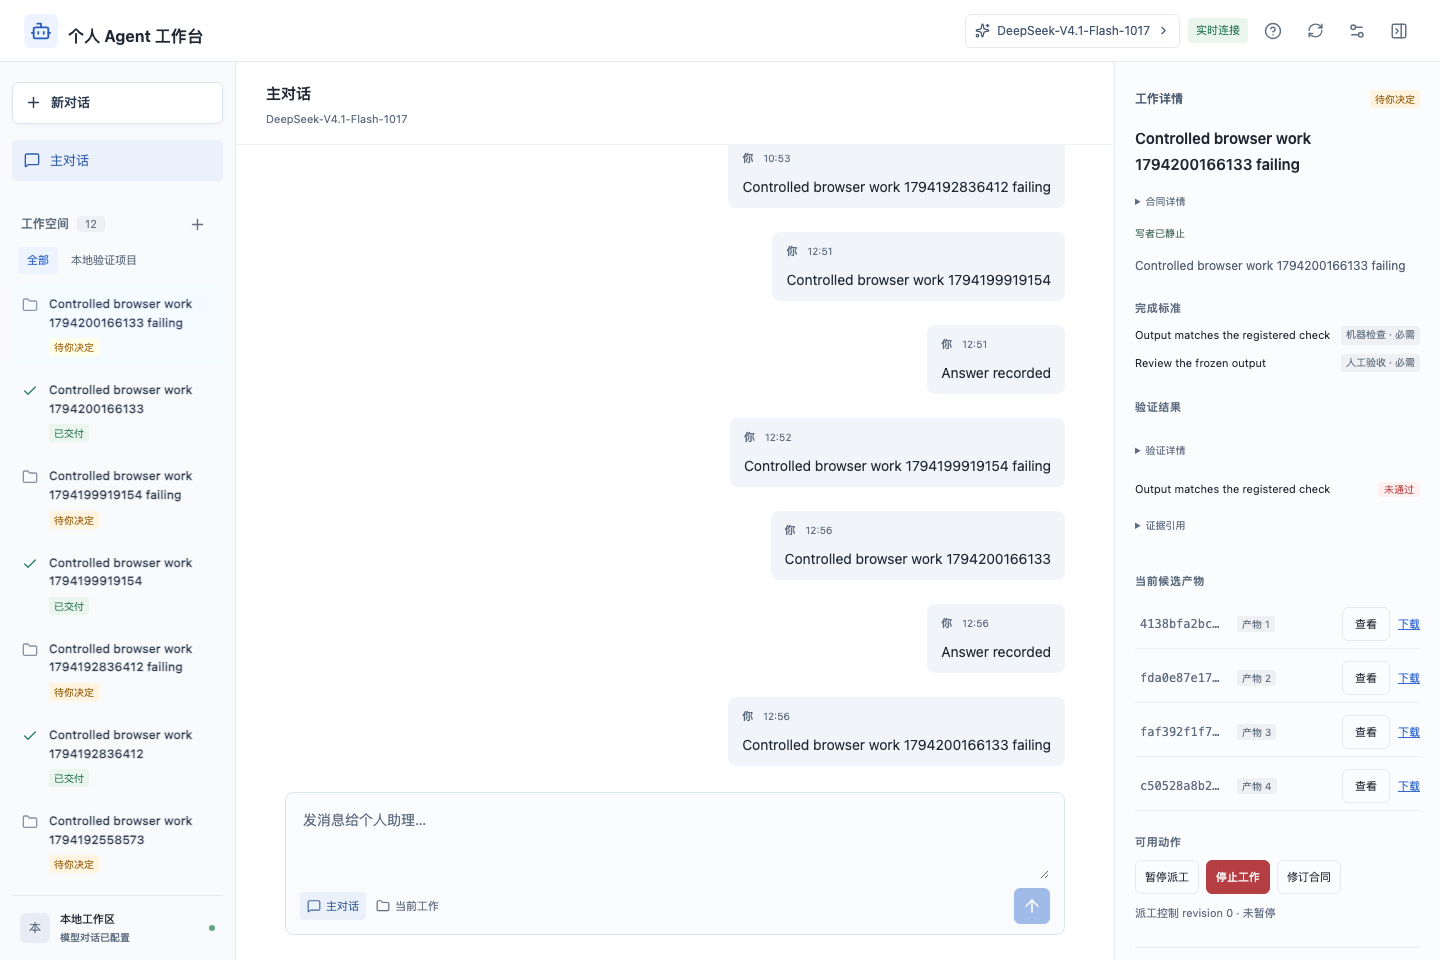
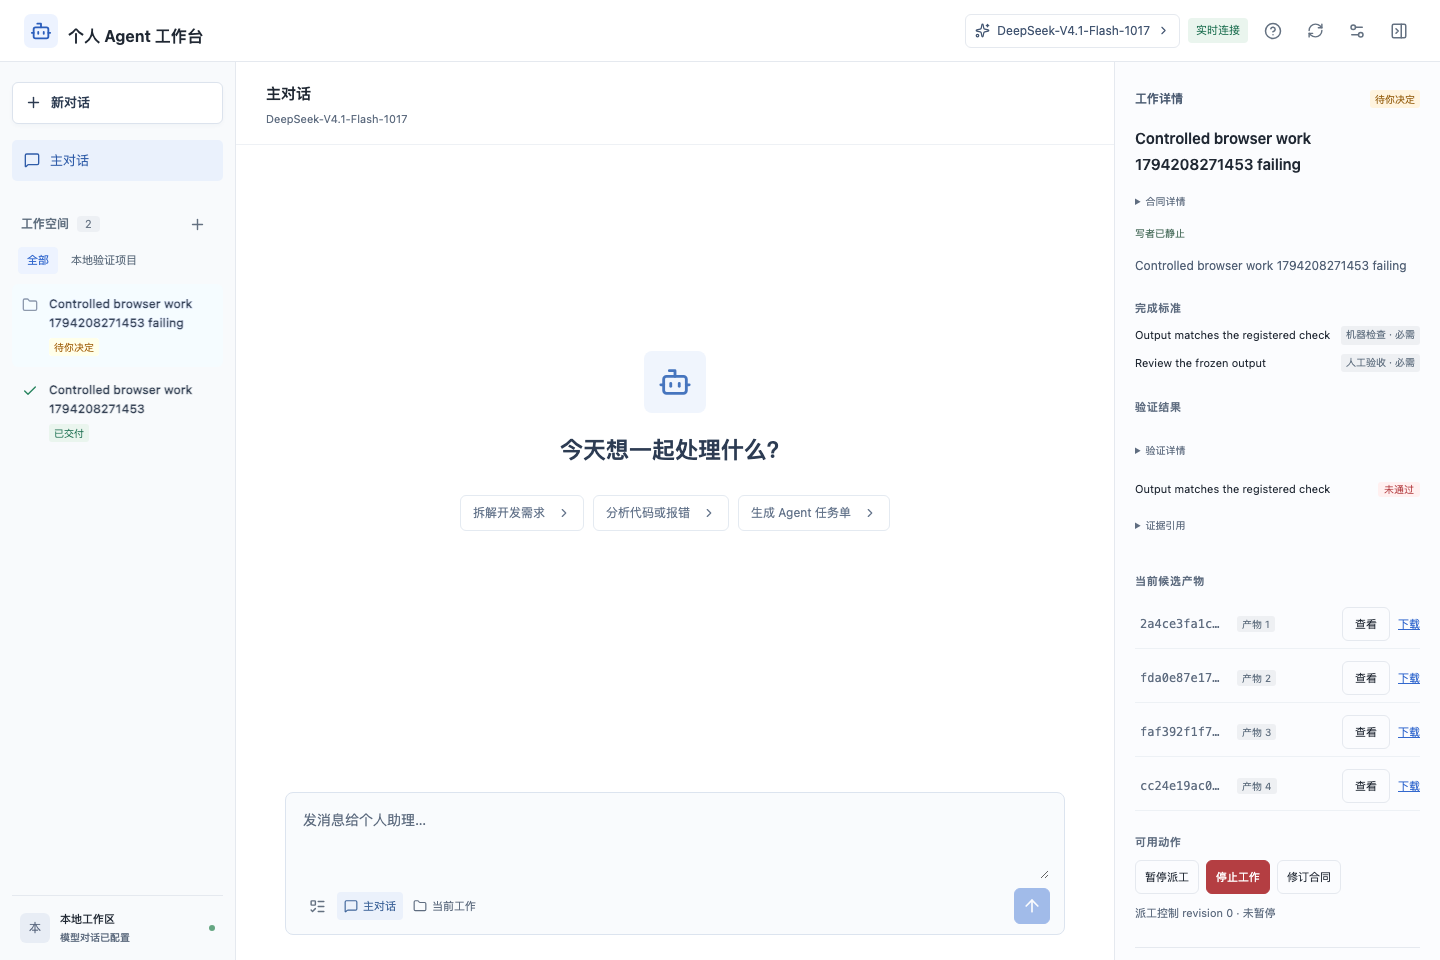
Record streaming, conversation isolation and live provider acceptance

diff --git a/docs/rfcs/WP-16/0007-streaming-and-conversation-isolation.md b/docs/rfcs/WP-16/0007-streaming-and-conversation-isolation.md
@@ -1,0 +1,46 @@
+# 流式对话与工作记录隔离
+
+日期：2026-11-09。分支：`codex/g2-execution-integration`。基线：`4c933b4b388c413603d8673c98999195f4a616c9`。已验收源码：`4e984fa71a0dc62e63fdc4a670a50daf1d152312`。本交接接续 0006，不升级真实编码执行器或 G1/G2 准入。
+
+## 问题与复现
+
+用户截图中，模型把 `Controlled browser work ... failing` 当作需求文本；回复也等待完成后整体出现。根因有两层：工作委托/补充与普通 chat 均使用 `trusted_user` provenance，模型历史只筛 provenance，遗漏 anchor；主线浏览器验收又直接写默认 `conv-main`。此前模型 SDK 明确使用 `stream: false`。
+
+先添加回归并实测失败：`node --test --test-name-pattern='work delegation' tests/integration/assistant-replies.case.mjs` 显示模型收到 `[测试工作目标, 工作内部补充, 当前问题]`，预期仅当前问题。`pnpm --filter @personal-agent/coordinator test:assistant` 的增量用例在修复前确认请求未启用 streaming，首段未提前到达。
+
+## 实现与归属
+
+主线拥有 coordinator 组合、contracts、根配置、集成测试；本次用户要求的 console 对话改进在主 checkout 实现。没有改 A/B checkout、生产迁移或 native 候选准入。
+
+- `assistant-replies.ts` 拒收工作锚定输入，历史排除锚定工作消息及其回复。主对话 UI 同样排除这些记录；选择“当前工作”才显示相应工作消息。保留既有数据库和历史，不重写旧回复。
+- `workbench-browser.mjs` 为每次验收创建独立随机 conversation ID，查询和委托均使用它，不再污染默认个人对话。
+- `model-provider.ts` 使用 SDK streaming completion，按网络增量调用回调。跨分片保留可能的 key 前缀并脱敏，之后才发出显示文本；限制 32768 字符、整次请求 45 秒，不自动重试。缺少 finish marker 视为中断。
+- 新 `AssistantStreams` 只保存最多 64 份临时显示快照。每份包含原消息/回复/项目/会话身份、revision、累计文本和 phase；75ms 检查有变化才发送，不写逐 token SQL。服务关闭中止当前模型请求，网页关闭不重发或取消后台请求。
[1 lines of base64/hex data omitted]
+- 前端使用 EventSource 接收累计快照。刷新时重取正在生成的快照，完整回复提交后切换到持久历史。原有请求意图与不确定结果不重发规则保留，临时流式文本不构成可信完成事实。
+- 新增可编辑的需求拆解、代码/报错、Agent 任务单模板，以及回复复制/Markdown 导出。帮助入口在窄屏可见。没有自动派单、文件读取或终端调用；指南明确给出手动交接到现有编码 Agent 的用法。
+
+## 验收
+
+目标 Node 24.22.2、pnpm 11.7.0、darwin/arm64；以下均在源码提交上完成，product 报告的 `sourceWorktreeClean` 为 true。
+
+| 命令 | 结果与范围 |
+| --- | --- |
+| `pnpm check:g2-workbench` | PASS，358 项；188 contracts + 96 application/recovery + 30 workspace/verification + 14 controlled product + 5 configuration + 17 assistant + 8 console；含类型检查与构建 |
+| `pnpm check:g2-browser` | PASS，11 场景；原有受控闭环保留，工作目标不伪装成聊天消息，测试使用独立会话 |
+| `pnpm check:assistant-browser` | PASS，6 场景；实际 SDK、effect、SQLite、HTTP/SSE 和 console，模型内容由临时本地 SSE 服务提供；首段先于完成、刷新不重复请求、完成后保存、Markdown 导出及新对话隔离 |
+| 实际网关短提示词 | PASS；只发 1 条普通测试问题。DeepSeek-V4.1-Flash-1017 首段 5934ms、完成 6799ms、8 次部分更新、198 字符；首段显示时还没有持久 assistant 回复 |
+
+17 个 assistant 用例包含：原消息/receipt/effect 原子性、对话/时间/工作上下文隔离、失败不重发、提交失败不重复计费、部分快照刷新、服务关闭中止、SDK 实际流解析、key 跨分片脱敏、缺少 finish marker 拒绝、外部取消和首段提前到达。
+
+证据：`reports/releases/g2-product.json`、`g2-workbench.json`、`workbench-browser/`、`assistant-streaming/report.json`、`assistant-streaming/live-provider.json` 及该目录截图。浏览器自动检查使用本地模型 fixture，不产生供应商费用；真实网关实测单列，没有发送仓库文件。源码与 dist 的实际 key 扫描另记录在 `assistant-streaming/key-scan.json`，只输出数量及命中路径。
+
+## 消费与限制
+
+用户：打开工作台后刷新，建议点“新对话”，选择“拆解开发需求”，确认计划后从输入框旁的任务模板选择“生成 Agent 任务单”，审阅后复制/导出给已有编码 Agent。旧回复不自动重生成；历史工作与普通对话分别查看。
+
+A：继续 console 时保留工作/聊天隔离、模型增量监听、草稿状态和复制/导出；不要把临时 stream phase 用作 Work 或 Assignment 生命周期。更改交互后运行两条浏览器检查。
+
+B：流式对话不涉及 Driver/Runner 的资源停止、物理屏障或可信完成。继续原准入任务。
+
+限制：完整会话历史列表、主动停止单条生成、自动跨 Agent 派单和任意仓库开发未接通。服务重启会中止未完成回复，重启后显示通知，既有请求不会自动重新计费；只有本机服务继续运行时，网页刷新能恢复同一条生成。旧回复里的历史污染说明不会被自动改写，新的会话与未来上下文已隔离。实际网关仍使用原 HTTP 地址，本次没有改变密钥或传输策略。
